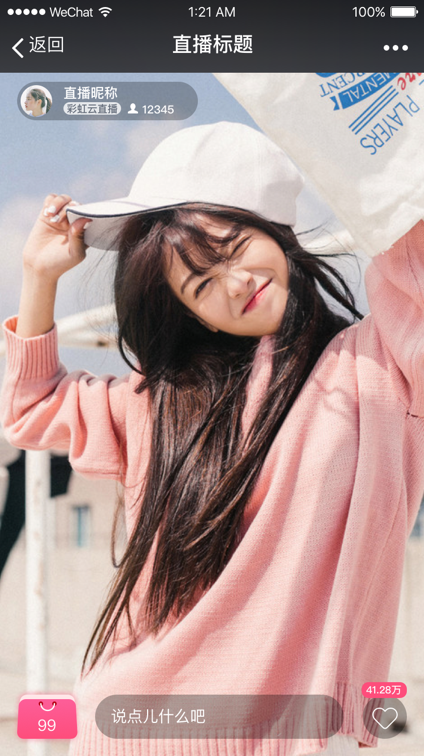
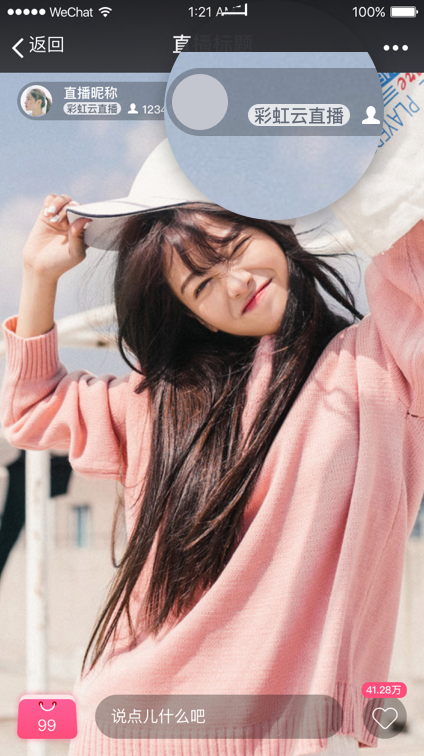
login/sign

Changed region(s): [[0.3679, 0.0, 0.9198, 0.3042]]

diff --git a/src/views/live/list.vue b/src/views/live/list.vue
@@ -50,14 +50,7 @@
 							</div>
 						</div>
 						<div class="buttom">
-							<div class="time">直播开始时间：
-								<template v-if="item.countDownStatus">
-									<span class="date">{{ item.liveCountDown.liveBeginTime | date('Y-MM-DD HH:mm') }}</span>
-								</template>
-								<template v-else>
-									<span>未设置</span>
-								</template>
-							</div>
+							<div class="time">直播开始时间：<span>未设置</span></div>
 							<div class="button">
 								<router-link :to="{ name: 'live_detail', params: { liveid: item.id } }">
 									<i class="iconfont icon-paintfill"></i>
@@ -95,7 +88,7 @@
 			:maskClosable="false"
 			className="createDialog"
 		>
-			<iForm ref="create" :rules="rules" label-position="left" :label-width="75" :model="create" @submit.native.prevent>
+			<iForm ref="create" :rules="rules" label-position="left" :label-width="85" :model="create" @submit.native.prevent>
 				<FormItem label="直播标题" prop="name">
 					<iInput :autofocus="true" v-model="create.name" placeholder="请输入直播标题"></iInput>
 				</FormItem>
@@ -121,7 +114,6 @@
 <script>
 	import { mapState, mapActions } from 'vuex'
 	import { LIVE_CREATE_RULES } from '../../options/rules'
-	import { date } from '../../utils/util'
 	import iscroll from 'iscroll'
 	export default {
 		data () {
@@ -248,10 +240,7 @@
 					}
 				});
 			}
-		},
-		filters: {
-			date
-		},
+		}
 	}
 </script>
 

diff --git a/src/views/home/main.vue b/src/views/home/main.vue
@@ -5,8 +5,7 @@
 				<div class="left">
 					<h1 title="彩虹云直播">
 						<router-link :to="{ name: 'select_channel' }" title="返回首页">
-							<img src="../../assets/logo2.png" height="28" width="39" alt="彩虹云直播">
-							彩虹云直播
+							<img src="../../assets/images/home/headerLogo.png" height="26" width="143" alt="彩虹云直播">
 						</router-link>
 					</h1>
 					<h2>{{ name }}</h2>
@@ -74,7 +73,7 @@
 		.head {
 			border-radius: 8px;
 			height: 80px;
-			padding: 0 20px;
+			padding: 0 40px;
 			background: #fff;
 			width: 100%;
 			margin-bottom: 20px;

diff --git a/src/views/live/detail-share.vue b/src/views/live/detail-share.vue
@@ -29,11 +29,7 @@
 					</iForm>
 					<div class="iPhone-bg">
 						<div class="iPhone-view">
-							<!-- 放大镜 -->
-							<div class="magnifier">
-
-							</div>
-							<img src="../../assets/images/live/share.png" height="100%" width="100%" alt="直播分享">
+							<img src="../../assets/images/live/setting.png" height="100%" width="100%" alt="直播分享">
 						</div>
 					</div>
 				</div>

diff --git a/src/views/live/detail-setting.vue b/src/views/live/detail-setting.vue
@@ -23,7 +23,11 @@
 				</iForm>
 				<div class="iPhone-bg">
 					<div class="iPhone-view">
-						<img src="../../assets/images/live/setting.png" height="100%" width="100%" alt="">
+						<!-- 放大镜 -->
+						<div class="magnifier">
+
+						</div>
+						<img src="../../assets/images/live/setting.png" height="100%" width="100%" alt="直播间设置">
 					</div>
 				</div>
 			</div>

diff --git a/src/views/user/main.vue b/src/views/user/main.vue
@@ -2,7 +2,7 @@
 	<div class="home">
 		<div class="box">
 			<div class="logo">
-				<img src="../../assets/toplogo.png" height="40" width="196">
+				<img src="../../assets/images/login/login.png" height="31" width="293">
 			</div>
 			<transition
 				class="view"

diff --git a/src/store/api/im.js b/src/store/api/im.js
@@ -1,8 +1,8 @@
 /*
 * @Author: William Chan
 * @Date:   2017-03-08 23:18:57
-* @Last Modified by:   Administrator
-* @Last Modified time: 2017-03-26 18:36:16
+* @Last Modified by:   cx
+* @Last Modified time: 2017-03-29 10:12:38
 */
 
 'use strict';

diff --git a/src/assets/styles/views/live/detail.less b/src/assets/styles/views/live/detail.less
@@ -116,6 +116,8 @@ img{
 					position:absolute;
 					width:110px;
 					height:110px;
+					top:0;
+					left:0;
 				}
 			}
 		}
